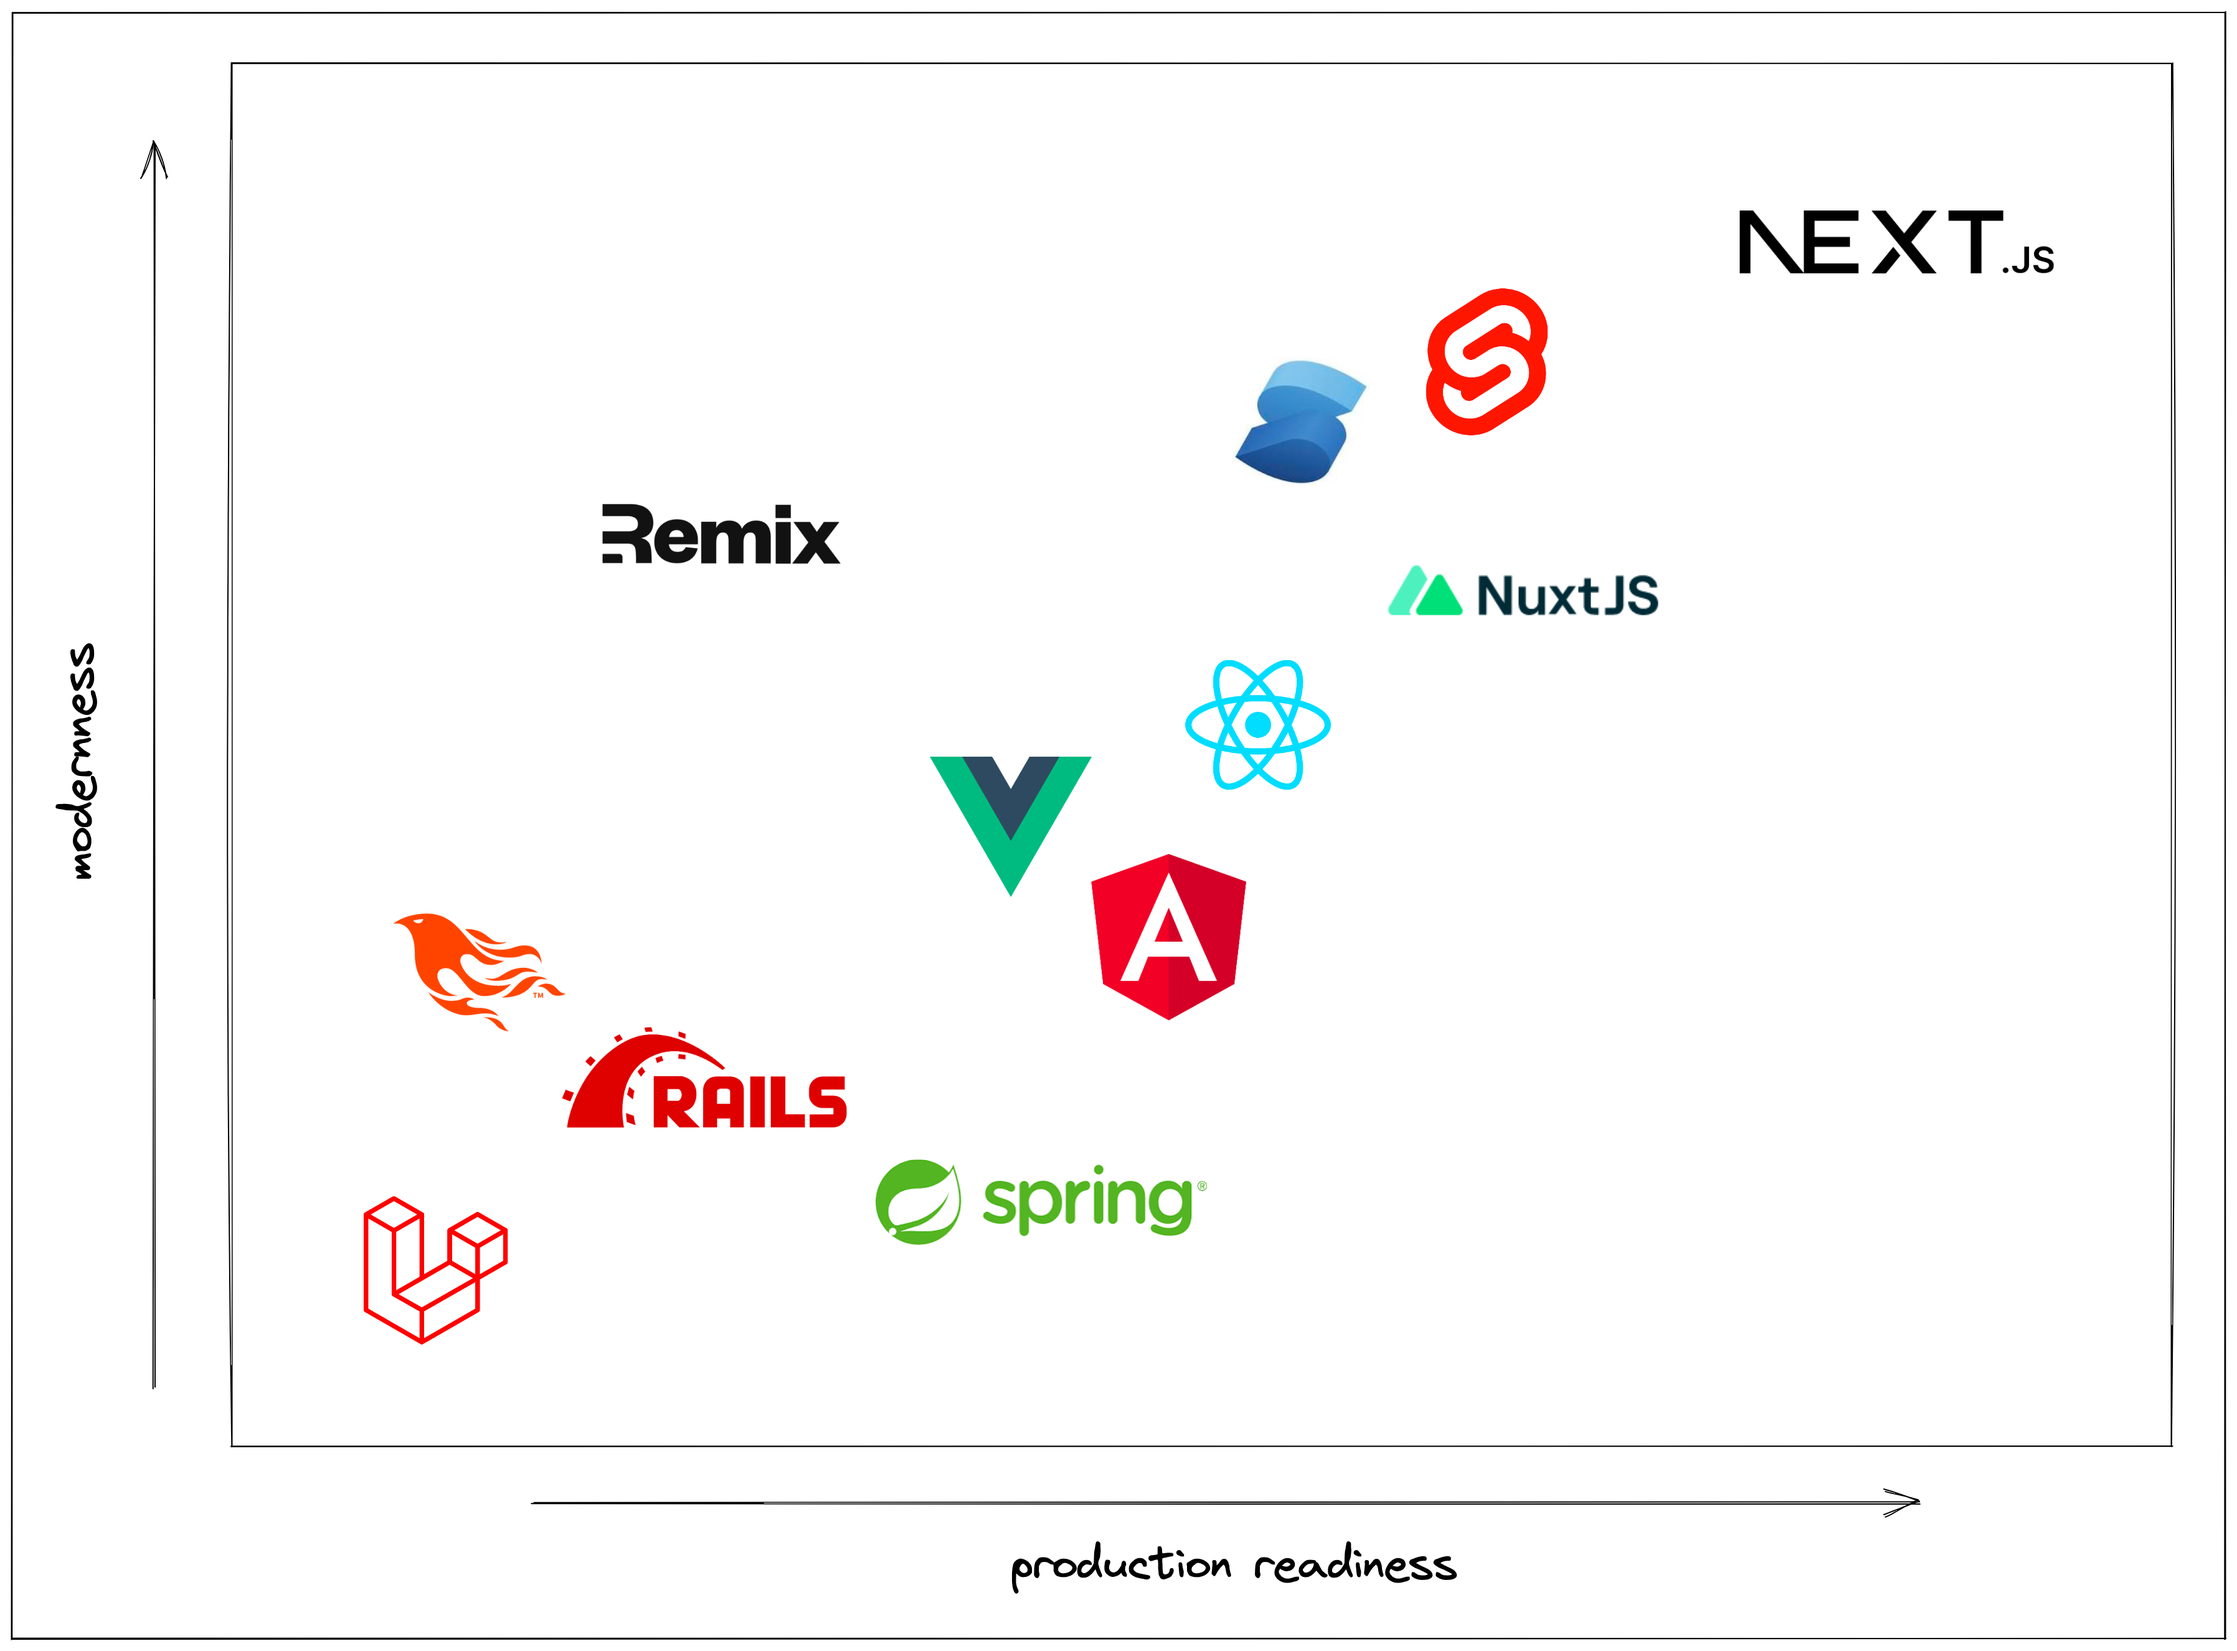
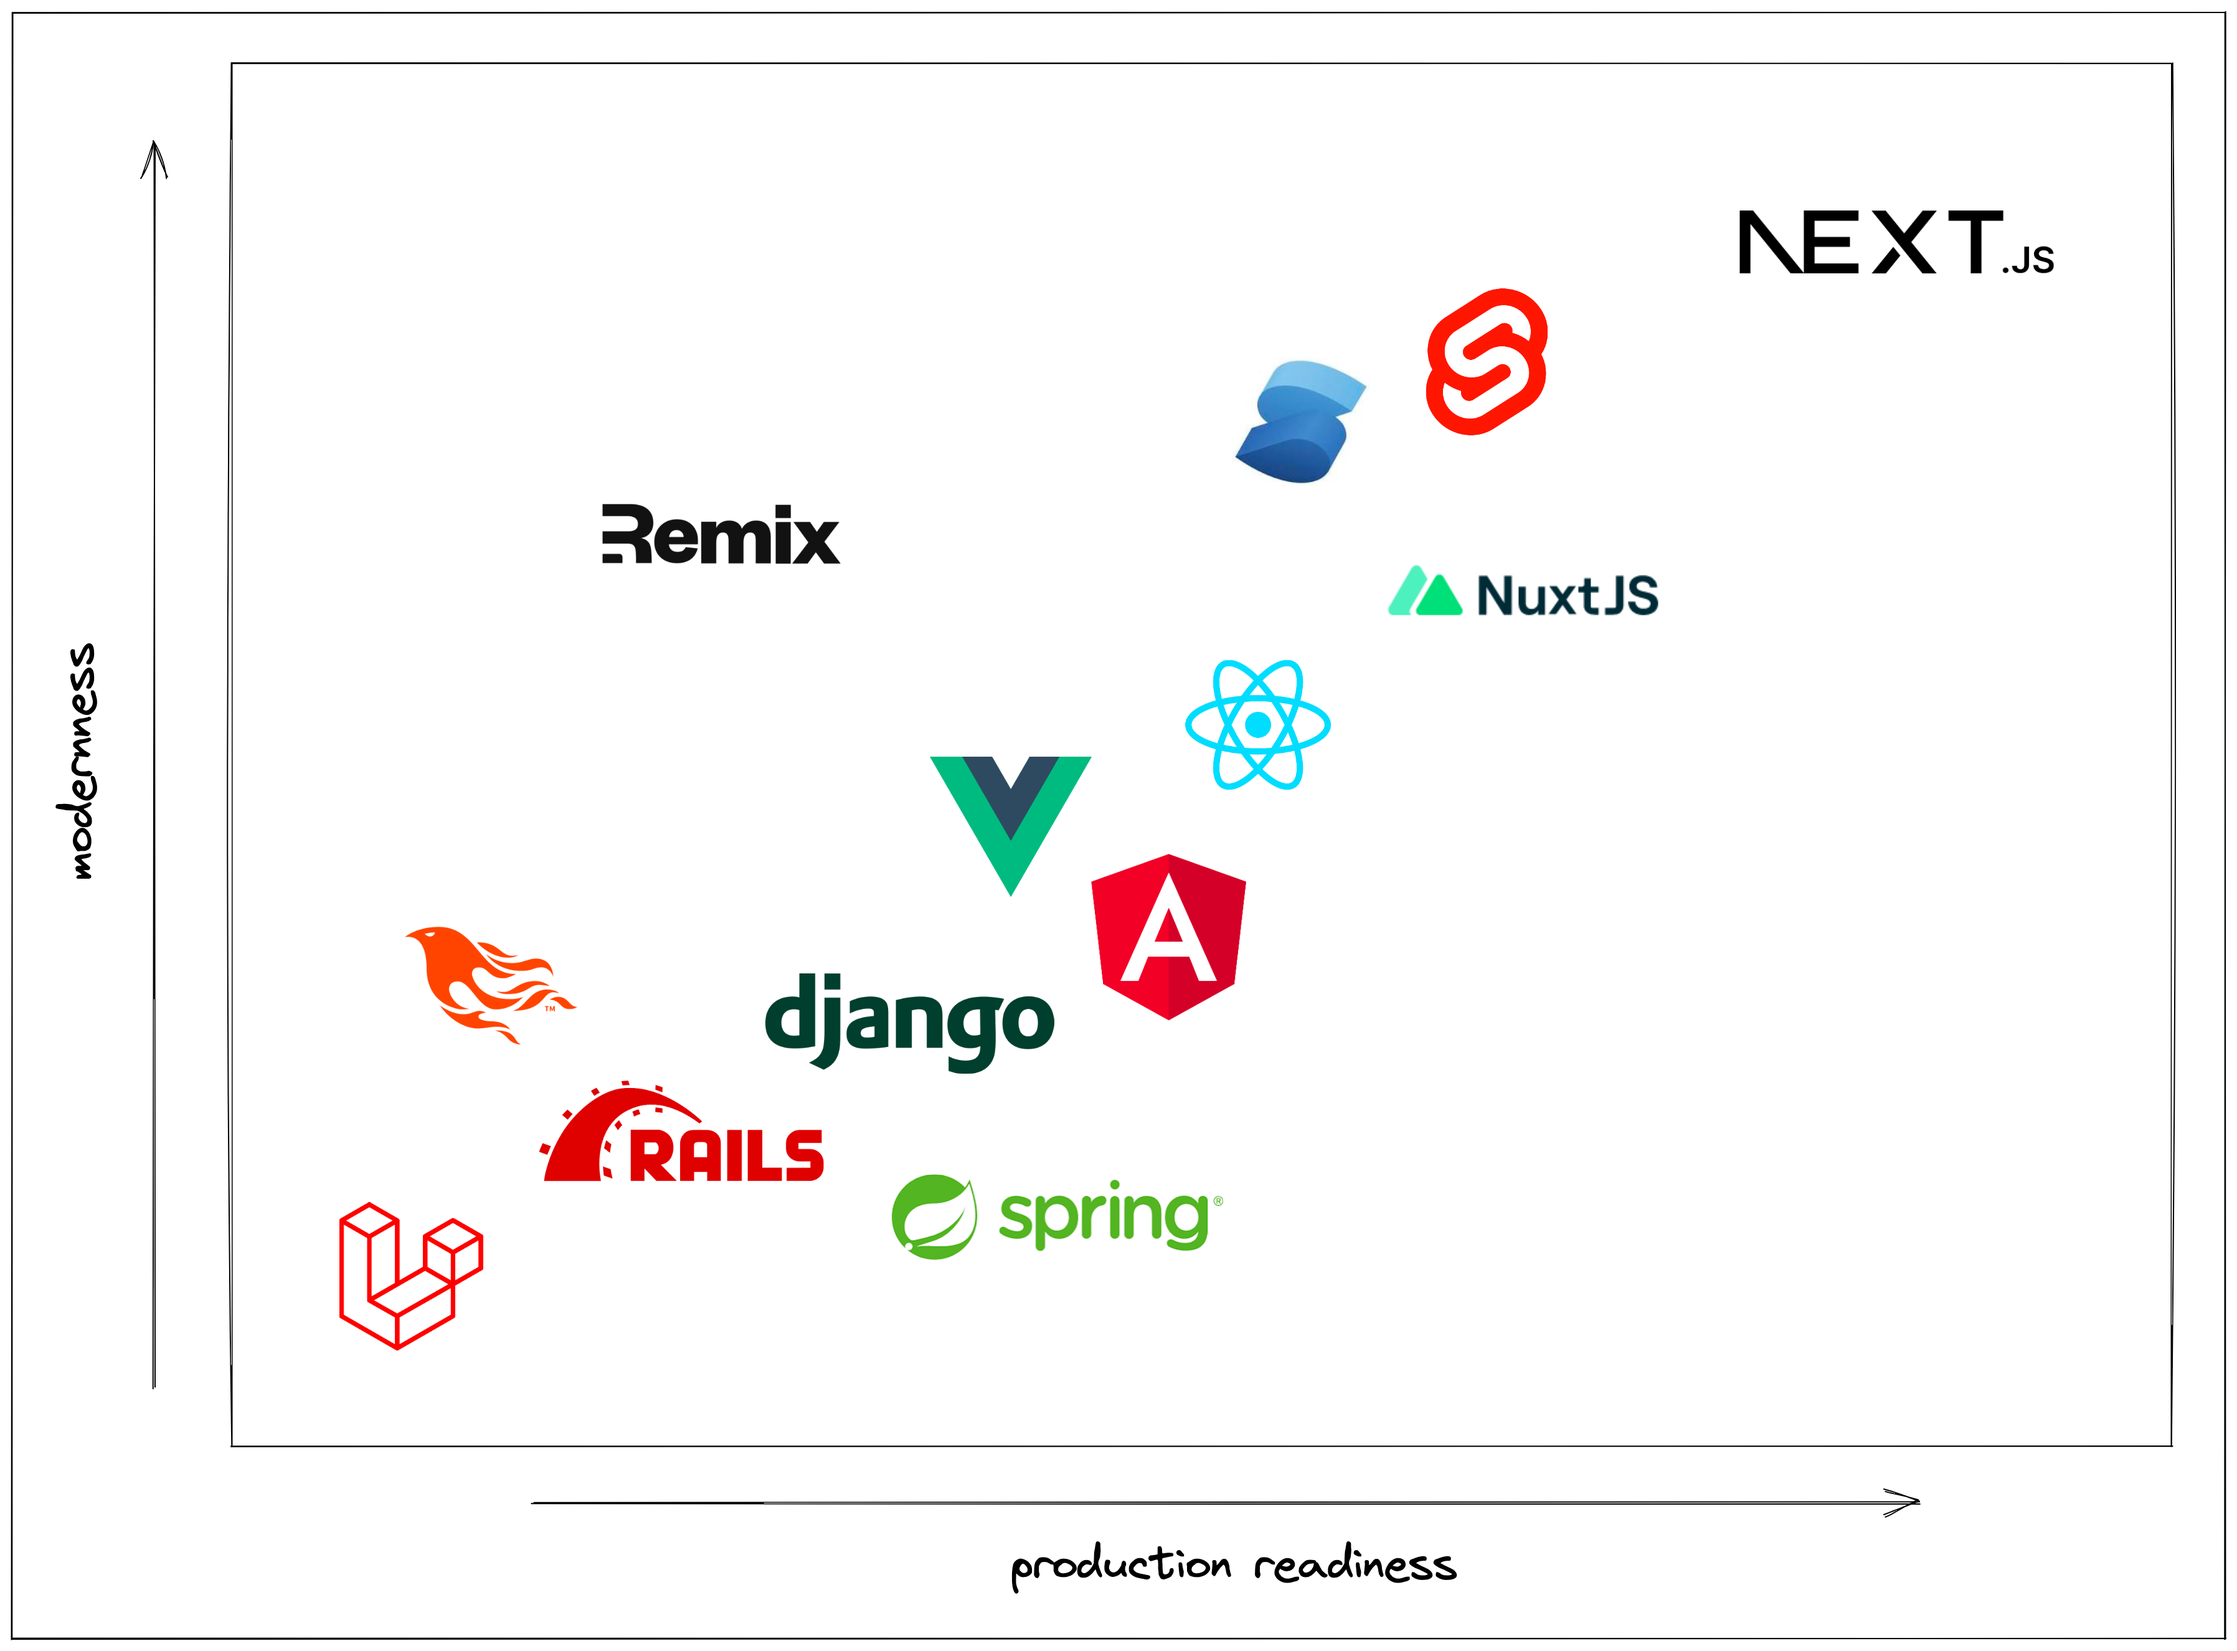
update to my_stack

diff --git a/posts/8_my_stack.md b/posts/8_my_stack.md
@@ -19,7 +19,7 @@ In two of my diagrams I use the word `modernness` on the Y axis. "Modernness" ha
 
 Minimizing technical debt means never building something that engineers are going to have to rewrite sometime down the road. It takes 5x longer to fix technical debt than it is to just do it right in the first place. This includes picking a stack that scales. I've seen so many companies pick a stack "in the name of speed" only to be hammered when they have to rebuild it differently down the road.
 
-In two of my diagrams I use the word `production readiness` on the X axis. "Production readiness" has a direct correlation with minimizing technical debt. 
+In two of my diagrams I use the word `production readiness` on the X axis. "Production readiness" has a direct correlation with minimizing technical debt.
 
 <!-- Some examples include companies that start with Firebase. Firebase is cute when you are starting because it takes care of a lot of heavy lifting. It becomes a nightmare though when you need switch off of it. Another example is companies that picked Ruby on Rails. It looks good in the beginning with all of the batteries included. It becomes a nightmare at scale when you have more than 5 engineers working on it. -->
 
@@ -30,7 +30,19 @@ The core conponets of a stack boil down to three main parts. A display layer, lo
 ![three components of a stack](../photos/stack.png)
 # Choosing The Frontend Framework
 
+If you want a case study in decision paralysis look no further than trying to pick a frontend framework. There are thousands of options to choose from. One quick way that we can narrow the list is by eliminating all non JavaScript/TypeScript frontend frameworks. There's many out there such as Rails, Spring, Laravel, Django, Phoenix, and others but modern JavaScript frameworks blow them out of the water. The non JavaScript frameworks are mainly used as backend frameworks now.
+
+You still have thousands of options to choose from. The big boys are [React](https://reactjs.org/), [Vue](https://vuejs.org/), and [Angular](https://angular.io/). Angular (built by Google) being the OG and React (built by Facebook) being the most popular. Most other frameworks are a spinoff of one of these two.
+
+[![Most popular web frameworks](../photos/most_popular_web_frameworks.png)](https://trends.google.com/trends/explore?date=all&geo=US&q=%2Fm%2F012l1vxv,%2Fg%2F11c6w0ddw9,%2Fg%2F11c0vmgx5d)
+
+It still leaves us with the question, which one is best? In my opinion, [Next.js](https://nextjs.org/) (a meta-framework for React) takes the best that React has to offer and solves all of React's biggest problems. It's the most modern and most production ready framework out there.
+
 ![Many different frontend frameworks](../photos/frontend_frameworks.png)
+
+Some of the most massive websites use Next.js such as TikTok, Hulu, Twitch, Doordash, HBO Max, Target, Walmart, and [so many more](https://nextjs.org/showcase).
+
+![Websites built with Next.js](../photos/nextjs_showcase.png)
 
 # Choosing The Backend Language
 
@@ -64,6 +76,10 @@ In my opinion, Rust is the clear winner. It's uncomprimising in almost every way
 
 ![Most loved languages in 2022](../photos/most_loved_languages.png)
 
+Rust is also one of the most performant languages on the market
+
+[![Rust is the highest performing languages](../photos/comparing_backend_frameworks.png)](https://web-frameworks-benchmark.netlify.app/compare?f=axum,gin,spring,fastapi,express,rails,laravel)
+
 #### TypeScript
 
 As a side note, you may have noticed that TypeScript is floating in limbo in the diagram above. It's in a very unique position. As I explained above, TypeScript is the go-to language for the frontend with almost no contest. Because TypeScript is inevitable, there could be a use case for TypeScript in the backend. There's also so many ways to deploy TypeScript that it makes it extremely easy to deploy and scale. In fact, Next.js has a way to write backend functions embeded right in the framework. If you want to use TypeScript for the whole stack, I would recommend checking out [Create T3 App](https://create.t3.gg/).
@@ -76,7 +92,7 @@ There are a lot of databases that have a specific use case such as redis or elas
 
 Postgres is going to be the best option for many reasons. It is the most flexible giving you the ability to store any kind of data that you would like to. It's open source which means that you can port it wherever you would like. It's quite scalable with the option to move it to something like Aurora down the road.
 
-Avoid technologies such as Firebase as there is an extreme amount of technical debt that is incurred in the long term compared to the marginal ammount of increased developer speed in the short term.
+Avoid technologies such as Firebase as there is an extreme amount of technical debt that is incurred in the long term compared to the marginal ammount of increased developer speed in the short term. It also becomes extremely expensive at scale due to the high cost of the hosted technology and the cost of development to migrate off of Firebase.
 
 ![Matrix of databases](../photos/databases.png)
 
@@ -86,7 +102,7 @@ Along with Rust, Postgres ranks high as one of the most loved database technolog
 
 # The Stack
 
-The stack consists of using Next.js with TypeScript on Vercel for the frontend. Axum with rust on Railway for the backend. Postgres on Supbase for the database. The deployment methods are listed but can easily be swapped out due to one of the core tenants of the stack being no vendor lock-in (no vendor lock-in is key to minimizing technical debt).
+The stack consists of using [Next.js](https://nextjs.org/) with [TypeScript](https://www.typescriptlang.org/) on [Vercel](https://vercel.com/) for the frontend. [Axum](https://github.com/tokio-rs/axum) with [Rust](https://www.rust-lang.org/) on [Railway](https://railway.app/) for the backend. [Postgres](https://www.postgresql.org/) on [Supbase](https://supabase.com/) for the database. The deployment methods are listed but can easily be swapped out due to one of the core tenants of the stack being no vendor lock-in (no vendor lock-in is key to minimizing technical debt).
 
 These three technologies can be used to scale to millions of users (granted the deployment methods will need to be adapted but Next, Rust, and Postgres are well equiped to do that). 
 
